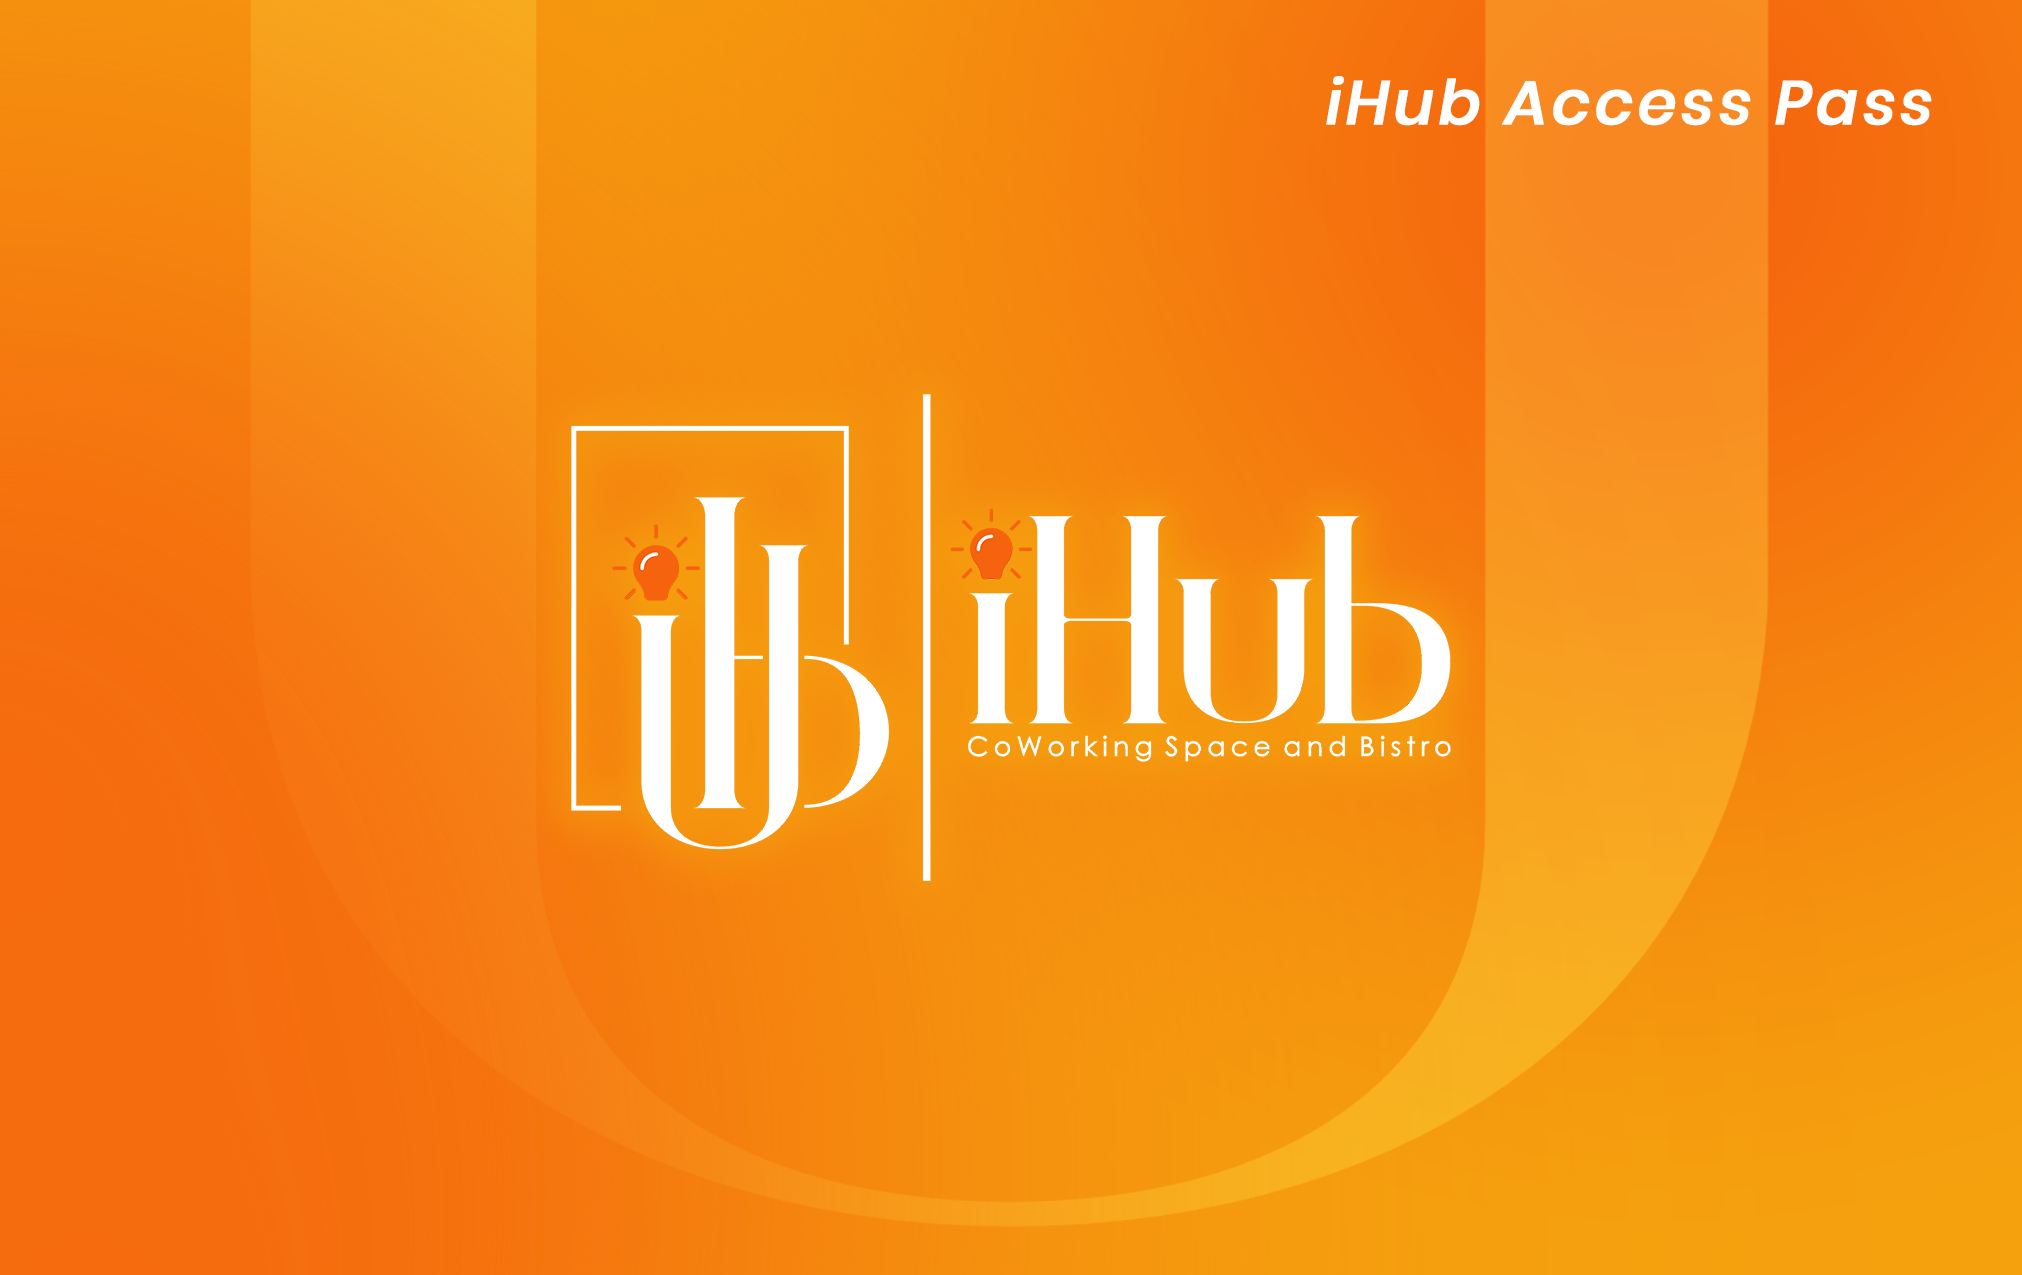
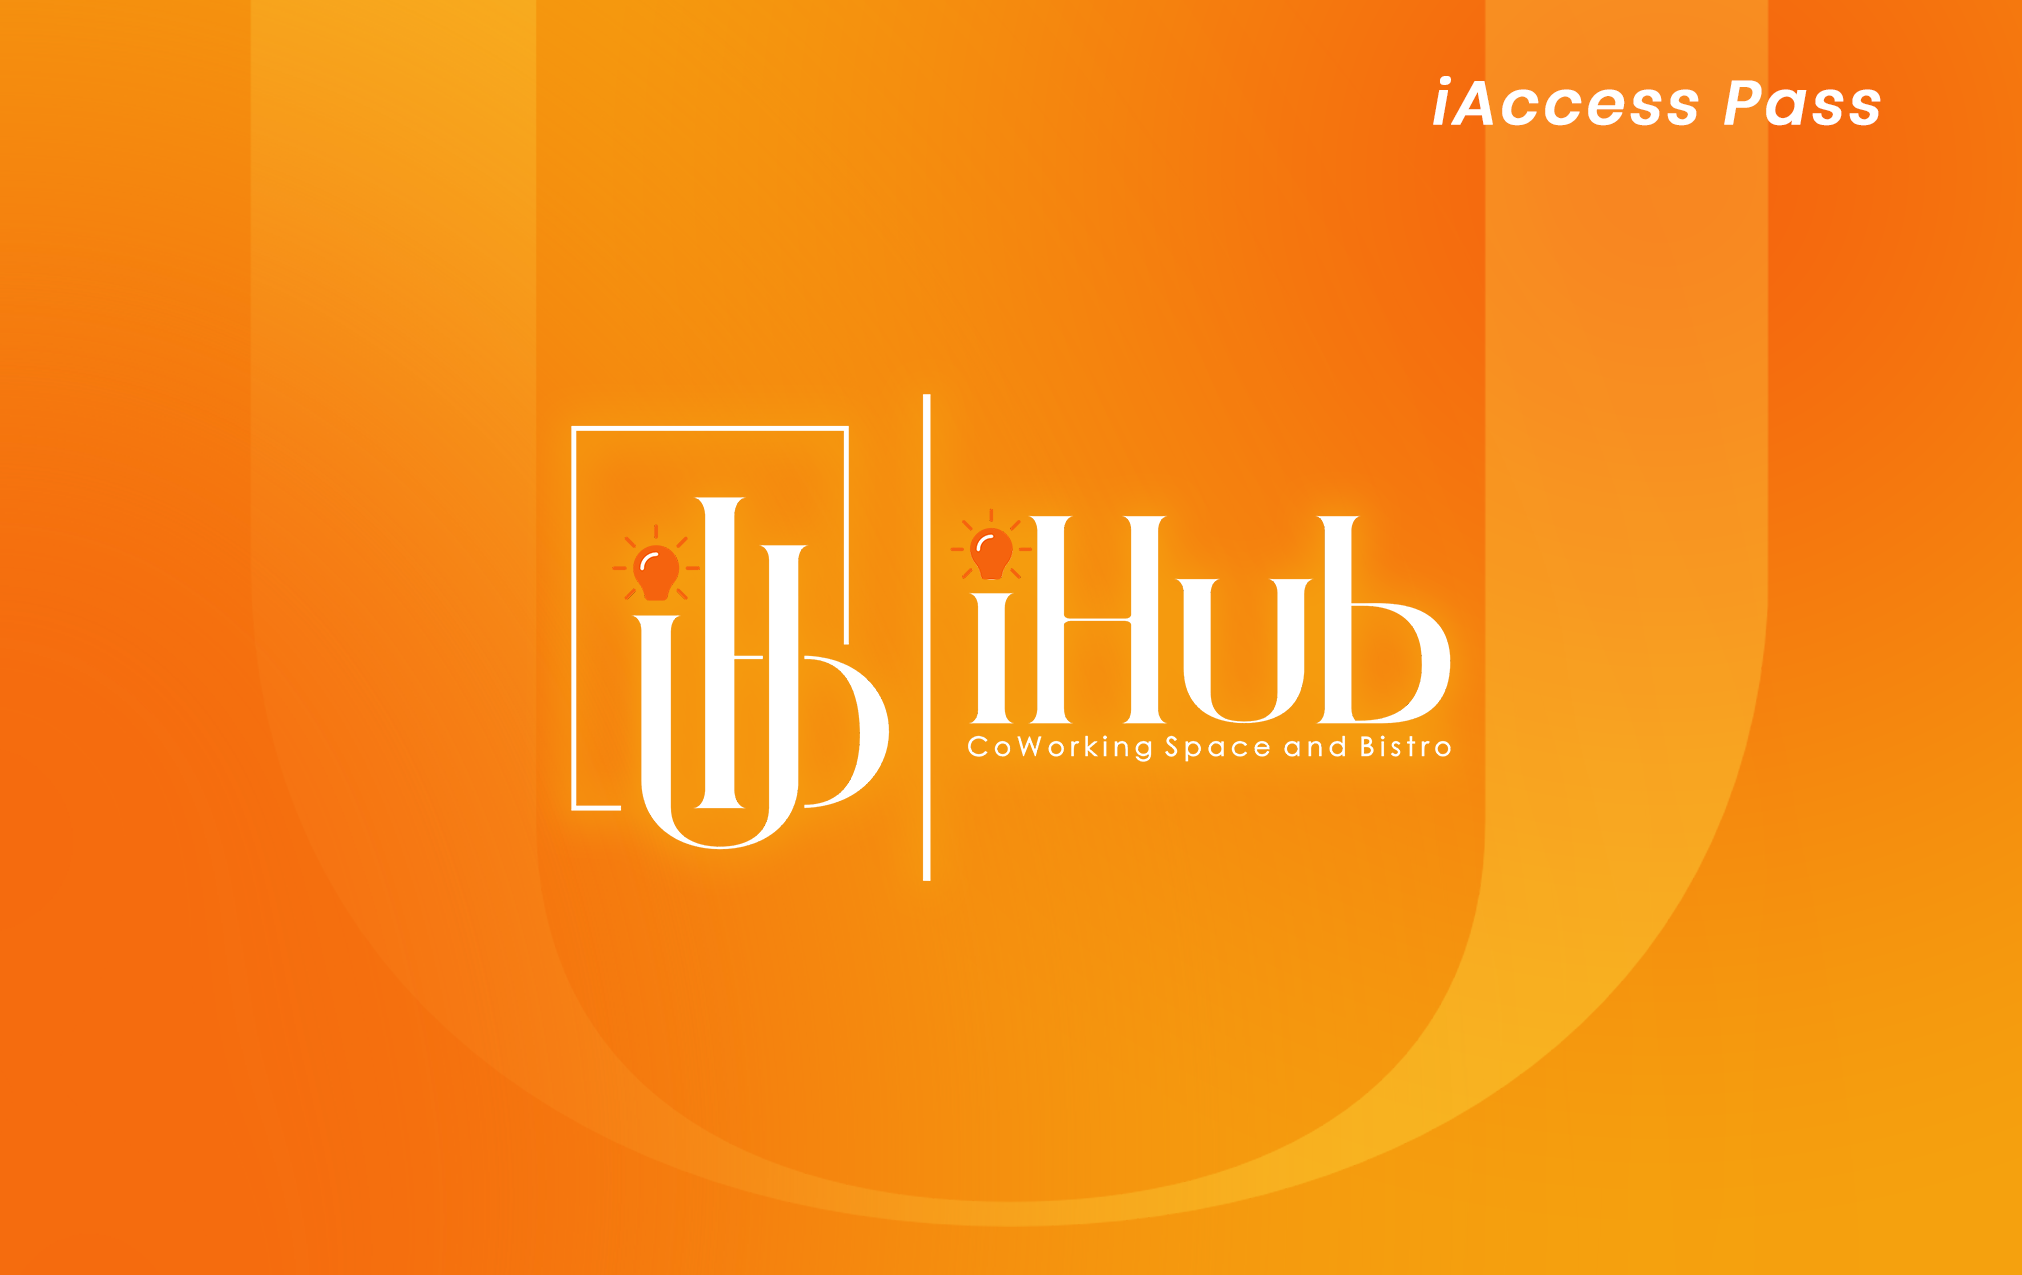
ui/ referral code input

Changed region(s): [[0.6543, 0.0612, 0.9659, 0.1224]]

diff --git a/ihub-app/app/(tabs)/accountCreation.tsx b/ihub-app/app/(tabs)/accountCreation.tsx
@@ -22,6 +22,7 @@ export default function SignUpScreen() {
     contact: "",
     email: "",
     password: "",
+    referral: "",
   });
 
   const [showDatePicker, setShowDatePicker] = useState(false);
@@ -41,7 +42,11 @@ export default function SignUpScreen() {
       setSelectedDate(date);
       handleChange(
         "birthday",
-        date.toLocaleDateString("en-US", { month: "2-digit", day: "2-digit", year: "numeric" })
+        date.toLocaleDateString("en-US", {
+          month: "2-digit",
+          day: "2-digit",
+          year: "numeric",
+        })
       );
     }
   };
@@ -139,7 +144,15 @@ export default function SignUpScreen() {
               onChangeText={(t) => handleChange("password", t)}
               secureTextEntry
             />
-
+            <TextInput
+              placeholder="Referral Code (optional)"
+              placeholderTextColor="#777"
+              style={styles.input}
+              value={form.referral}
+              onChangeText={(t) => handleChange("referral", t)}
+              autoCapitalize="characters"
+              maxLength={10}
+            />
             <TouchableOpacity style={styles.button} onPress={handleSignUp}>
               <Text style={styles.buttonText}>Sign Up</Text>
             </TouchableOpacity>

diff --git a/ihub-app/app/(tabs)/customerDetails.tsx b/ihub-app/app/(tabs)/customerDetails.tsx
@@ -1,25 +1,25 @@
 import React from "react";
 import { View, Text, StyleSheet, TouchableOpacity } from "react-native";
 import { LinearGradient } from "expo-linear-gradient";
-import QRCode from "react-native-qrcode-svg"; // 👈 make sure you install this: npm install react-native-qrcode-svg
+import QRCode from "react-native-qrcode-svg";
 
 export default function QrScreen() {
-  const userId = "784256"; // You can replace this dynamically later
+  const userId = "784256";
 
   return (
     <LinearGradient
-      colors={["#f5b70e", "#f5630e"]} // Yellow → Orange gradient
+      colors={["#f5b70e", "#f5630e"]} 
       start={{ x: 0, y: 0 }}
       end={{ x: 1, y: 1 }}
       style={styles.screen}
     >
       <View style={styles.card}>
-        <Text style={styles.title}>iHub Access</Text>
+        <Text style={styles.title}>iAccess</Text>
 
         {/* QR Code */}
         <View style={styles.qrContainer}>
           <QRCode
-            value={userId} // The data encoded in QR
+            value={userId}
             size={180}
             color="#333"
             backgroundColor="white"

diff --git a/ihub-app/app/(tabs)/index.tsx b/ihub-app/app/(tabs)/index.tsx
@@ -132,7 +132,7 @@ export default function HomeScreen() {
 
       {/* Info Section */}
       <View style={styles.infoContainer}>
-        <Text style={styles.pointsText}>Total iHub Points</Text>
+        <Text style={styles.pointsText}>Total iAccess Points</Text>
         <Text style={styles.pointsValue}>200</Text>
       </View>
 

diff --git a/ihub-app/app/(tabs)/_layout.tsx b/ihub-app/app/(tabs)/_layout.tsx
@@ -4,7 +4,7 @@ import React from 'react';
 export default function Layout() {
   return (
     <Stack screenOptions={{ headerShown: false }}>
-      <Stack.Screen name="customerDetails" />
+      <Stack.Screen name="accountCreation" />
     </Stack>
   );
 }
